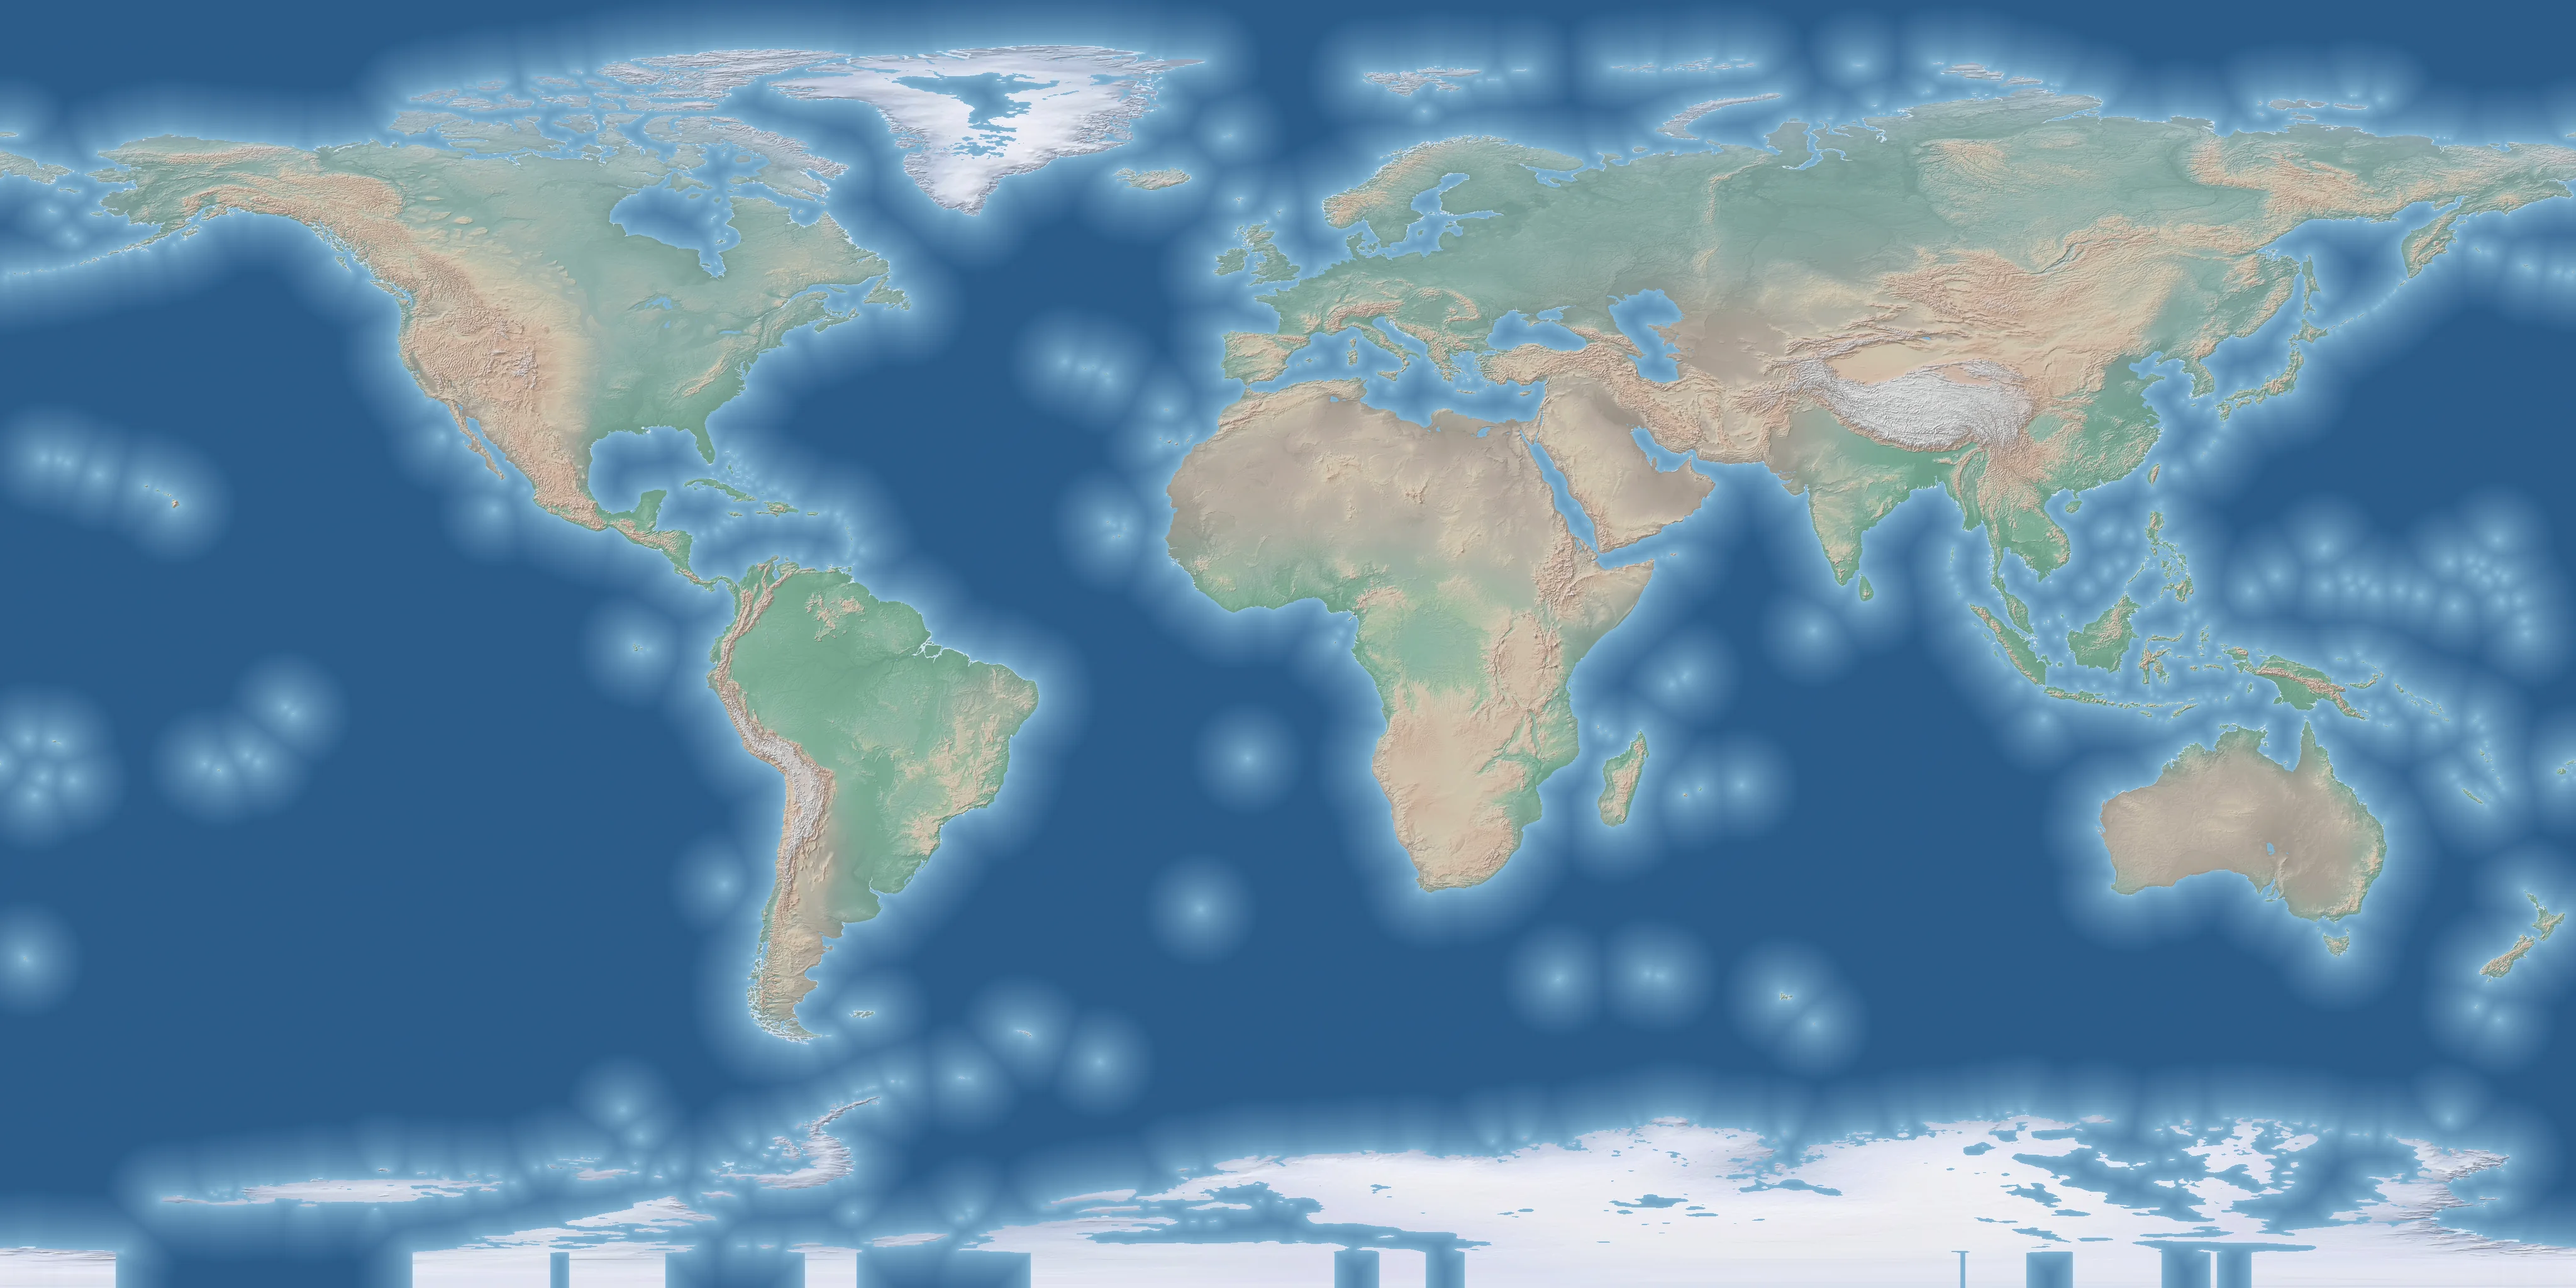
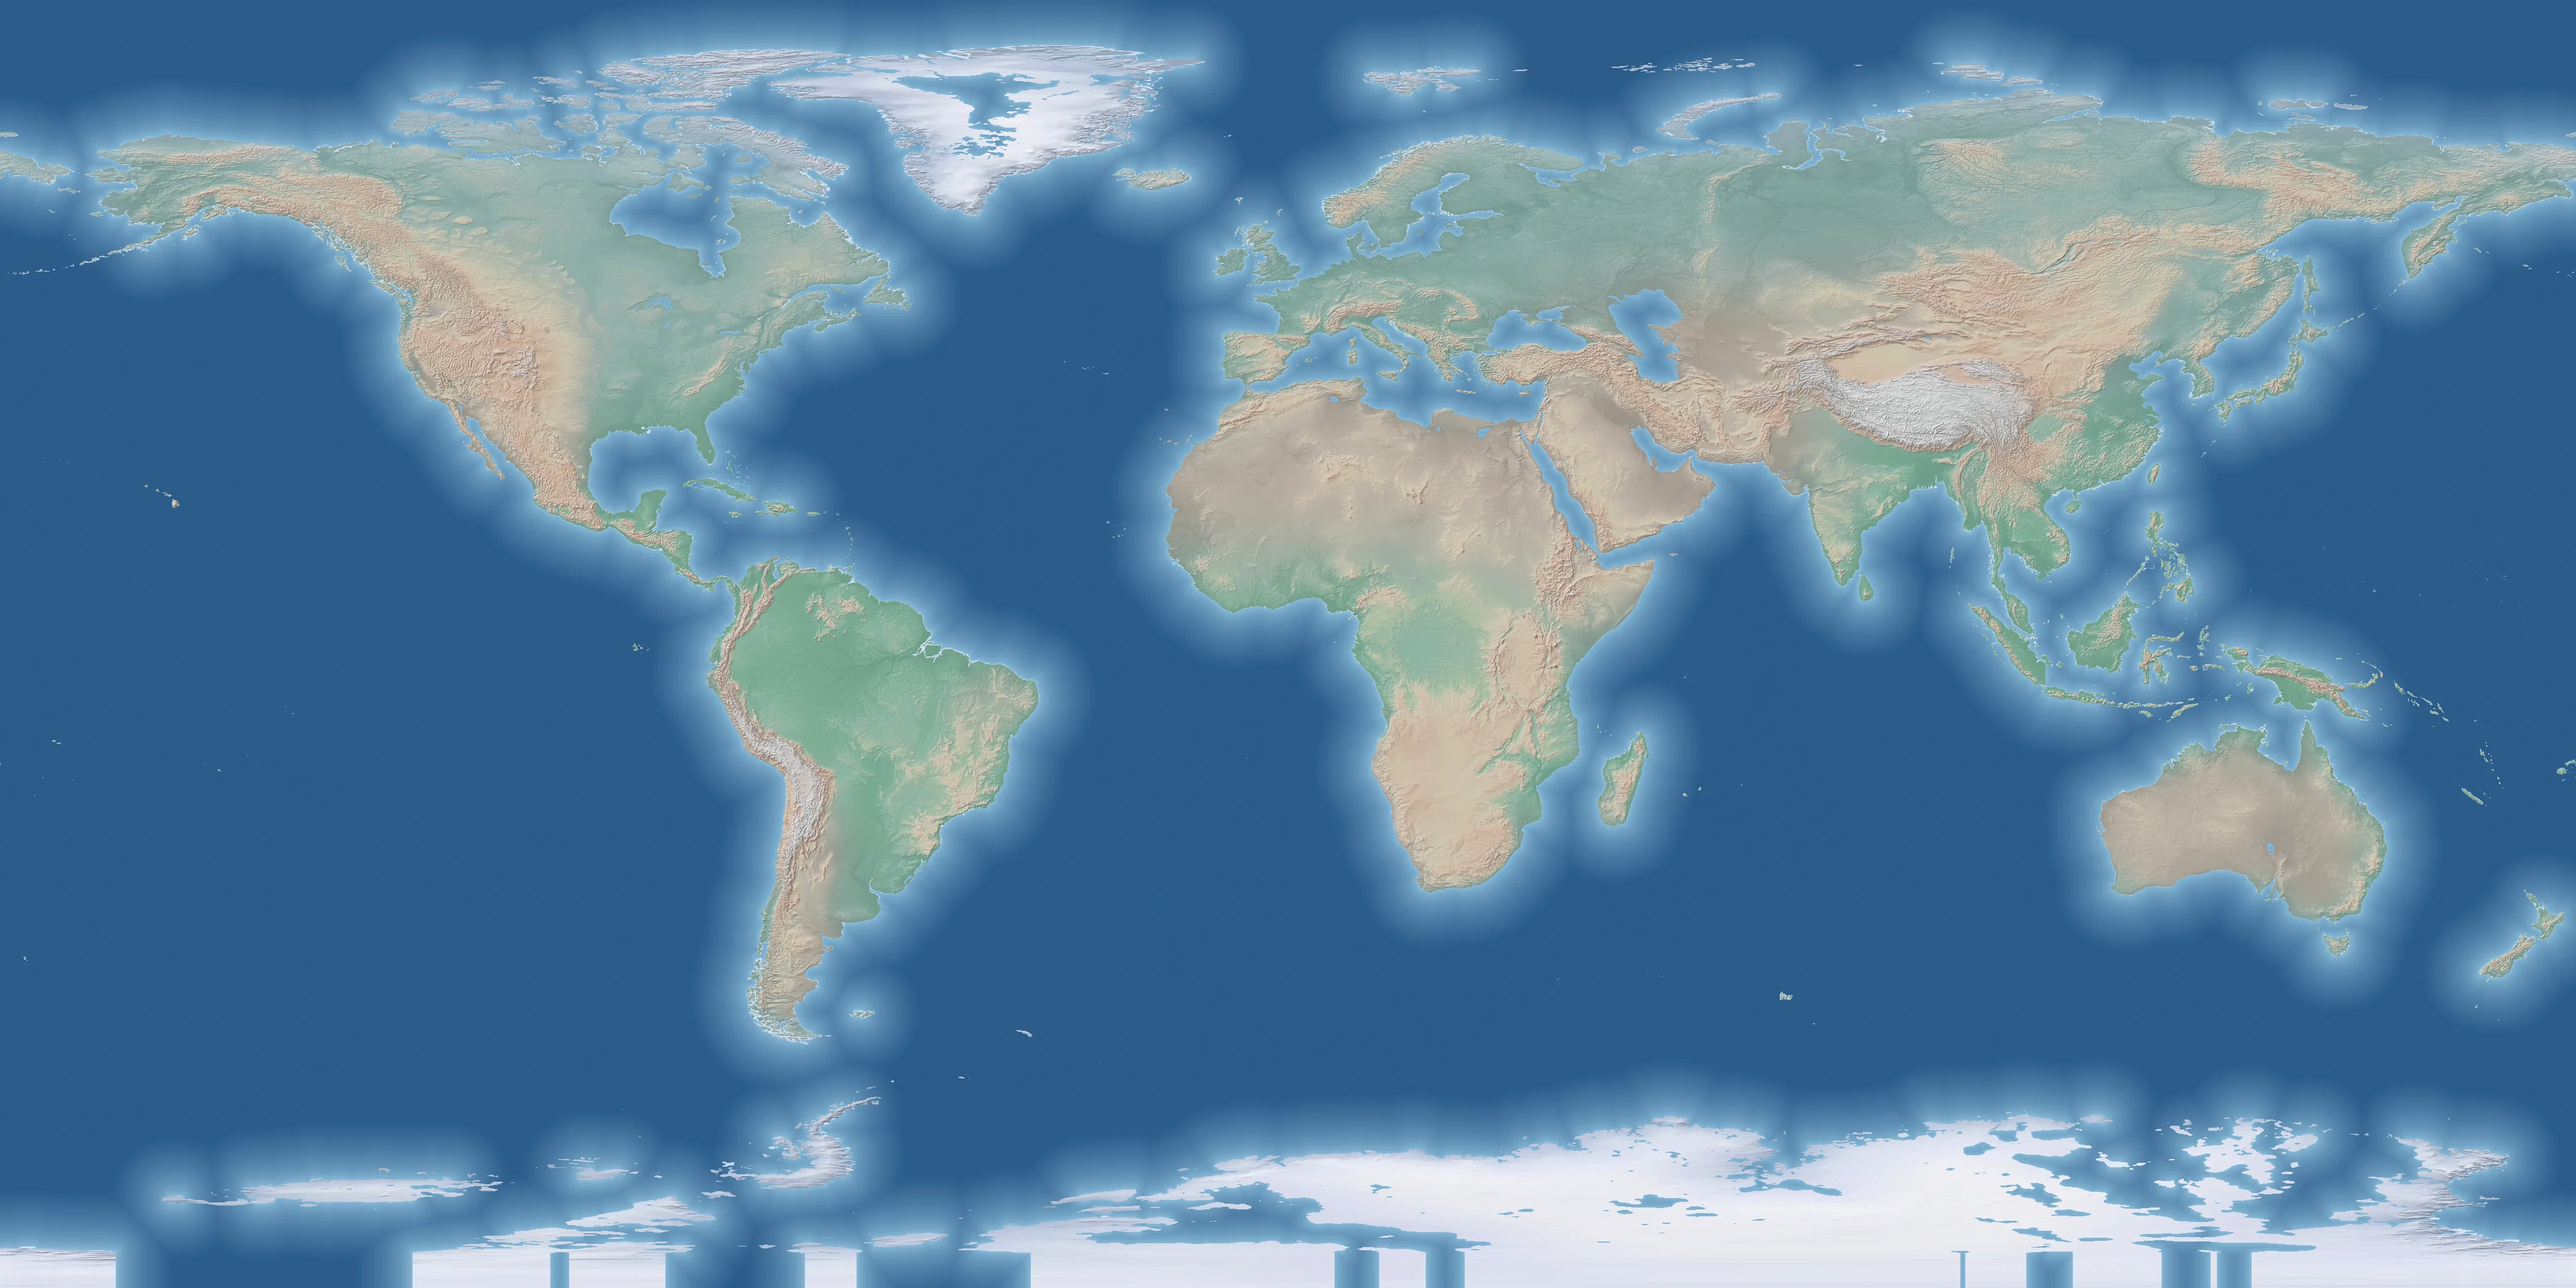
fix(terrain): 小岛不再撑出圆形浅海亮斑（岸线先做 90km 开运算再算水深梯度），build 2026-11-10-AL

diff --git a/index.html b/index.html
@@ -3,7 +3,7 @@
 <head>
 <meta charset="utf-8">
 <meta name="viewport" content="width=device-width, initial-scale=1, viewport-fit=cover">
-<meta name="build" content="2026-11-10-AK">
+<meta name="build" content="2026-11-10-AL">
 <link rel="icon" type="image/png" href="assets/favicon.png">
 <link rel="apple-touch-icon" href="assets/favicon.png">
 <!-- OBS 是图片/音频/贴图的唯一源站。提早点亮 DNS 和 TLS：
